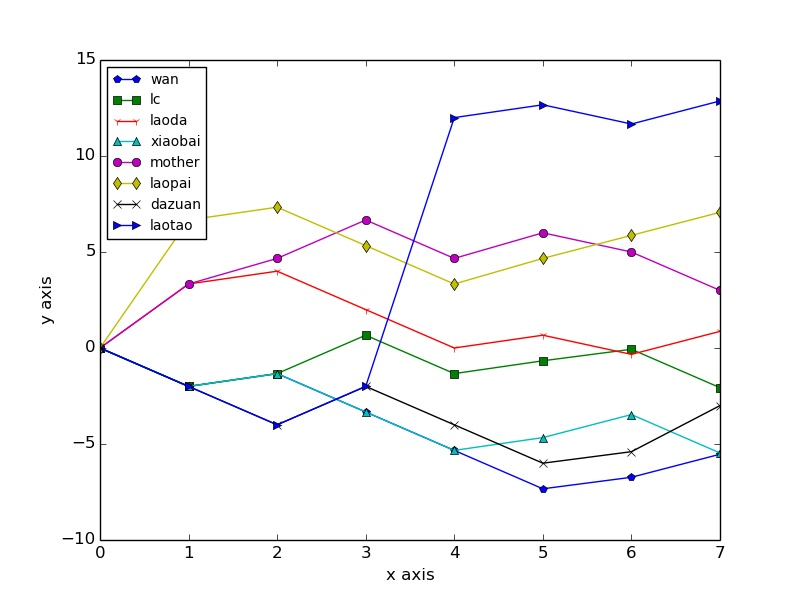
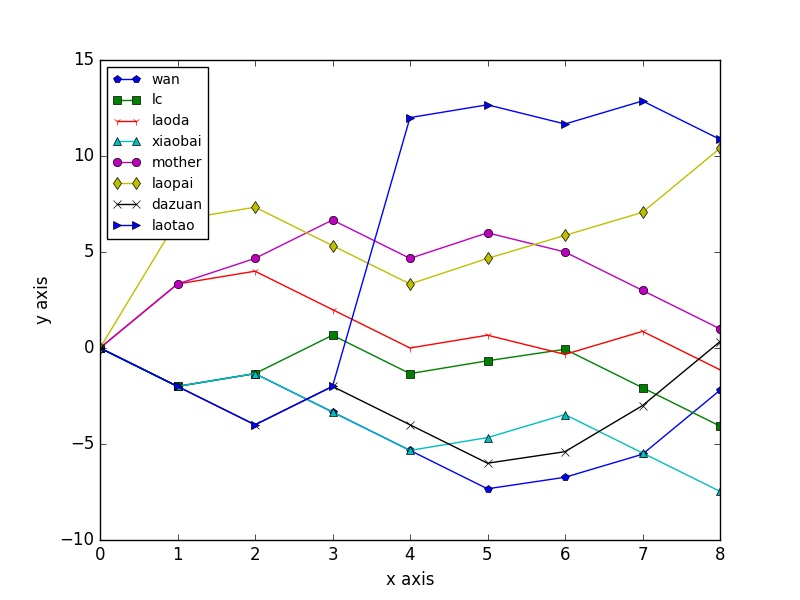
update

diff --git a/README.md b/README.md
@@ -1,28 +1,48 @@
 # E cup guess competition report
 ## real-time ranking
-2016-06-13 16:11:26
+2016-06-13 22:57:47
 
 |rank|name|score|
 |:---:|:---:|:---:|
-|1|laotao|12.87|
-|2|laopai|7.07|
-|3|mother|3.00|
-|4|laoda|0.87|
-|5|lc|-2.07|
-|6|dazuan|-3.00|
-|7|xiaobai|-5.47|
-|8|wan|-5.53|
+|1|laotao|10.87|
+|2|laopai|10.40|
+|3|mother|1.00|
+|4|dazuan|0.33|
+|5|laoda|-1.13|
+|6|wan|-2.20|
+|7|lc|-4.07|
+|8|xiaobai|-7.47|
 
 ## Pond
 611.27
 
 ## History
 ![image](https://github.com/Anserw/E_Cup/blob/master/plot.jpg)
+### 2016061321 Spain 0 : 0 Czech
+- handicap: -1 / -1.5
+- scorer: laotao
+- owners:
+ - Spain: lc
+ - Czech: lc
+
+
+|name|guess|score change|
+|:---:|:---:|:---:|
+|wan|Czech|3.33|
+|lc|Spain|-2.00|
+|laoda|Spain|-2.00|
+|xiaobai|Spain|-2.00|
+|mother|Spain|-2.00|
+|laopai|Czech|3.33|
+|dazuan|Czech|3.33|
+|laotao|Spain|-2.00|
+|Pond|..|0.00|
+
 ### 2016061303 Germany 2 : 0 Ukraine
 - handicap: -1
 - scorer: laotao
 - owners:
- - Germany: lc
+ - Germany: dazuan
  - Ukraine: dazuan
 
 
